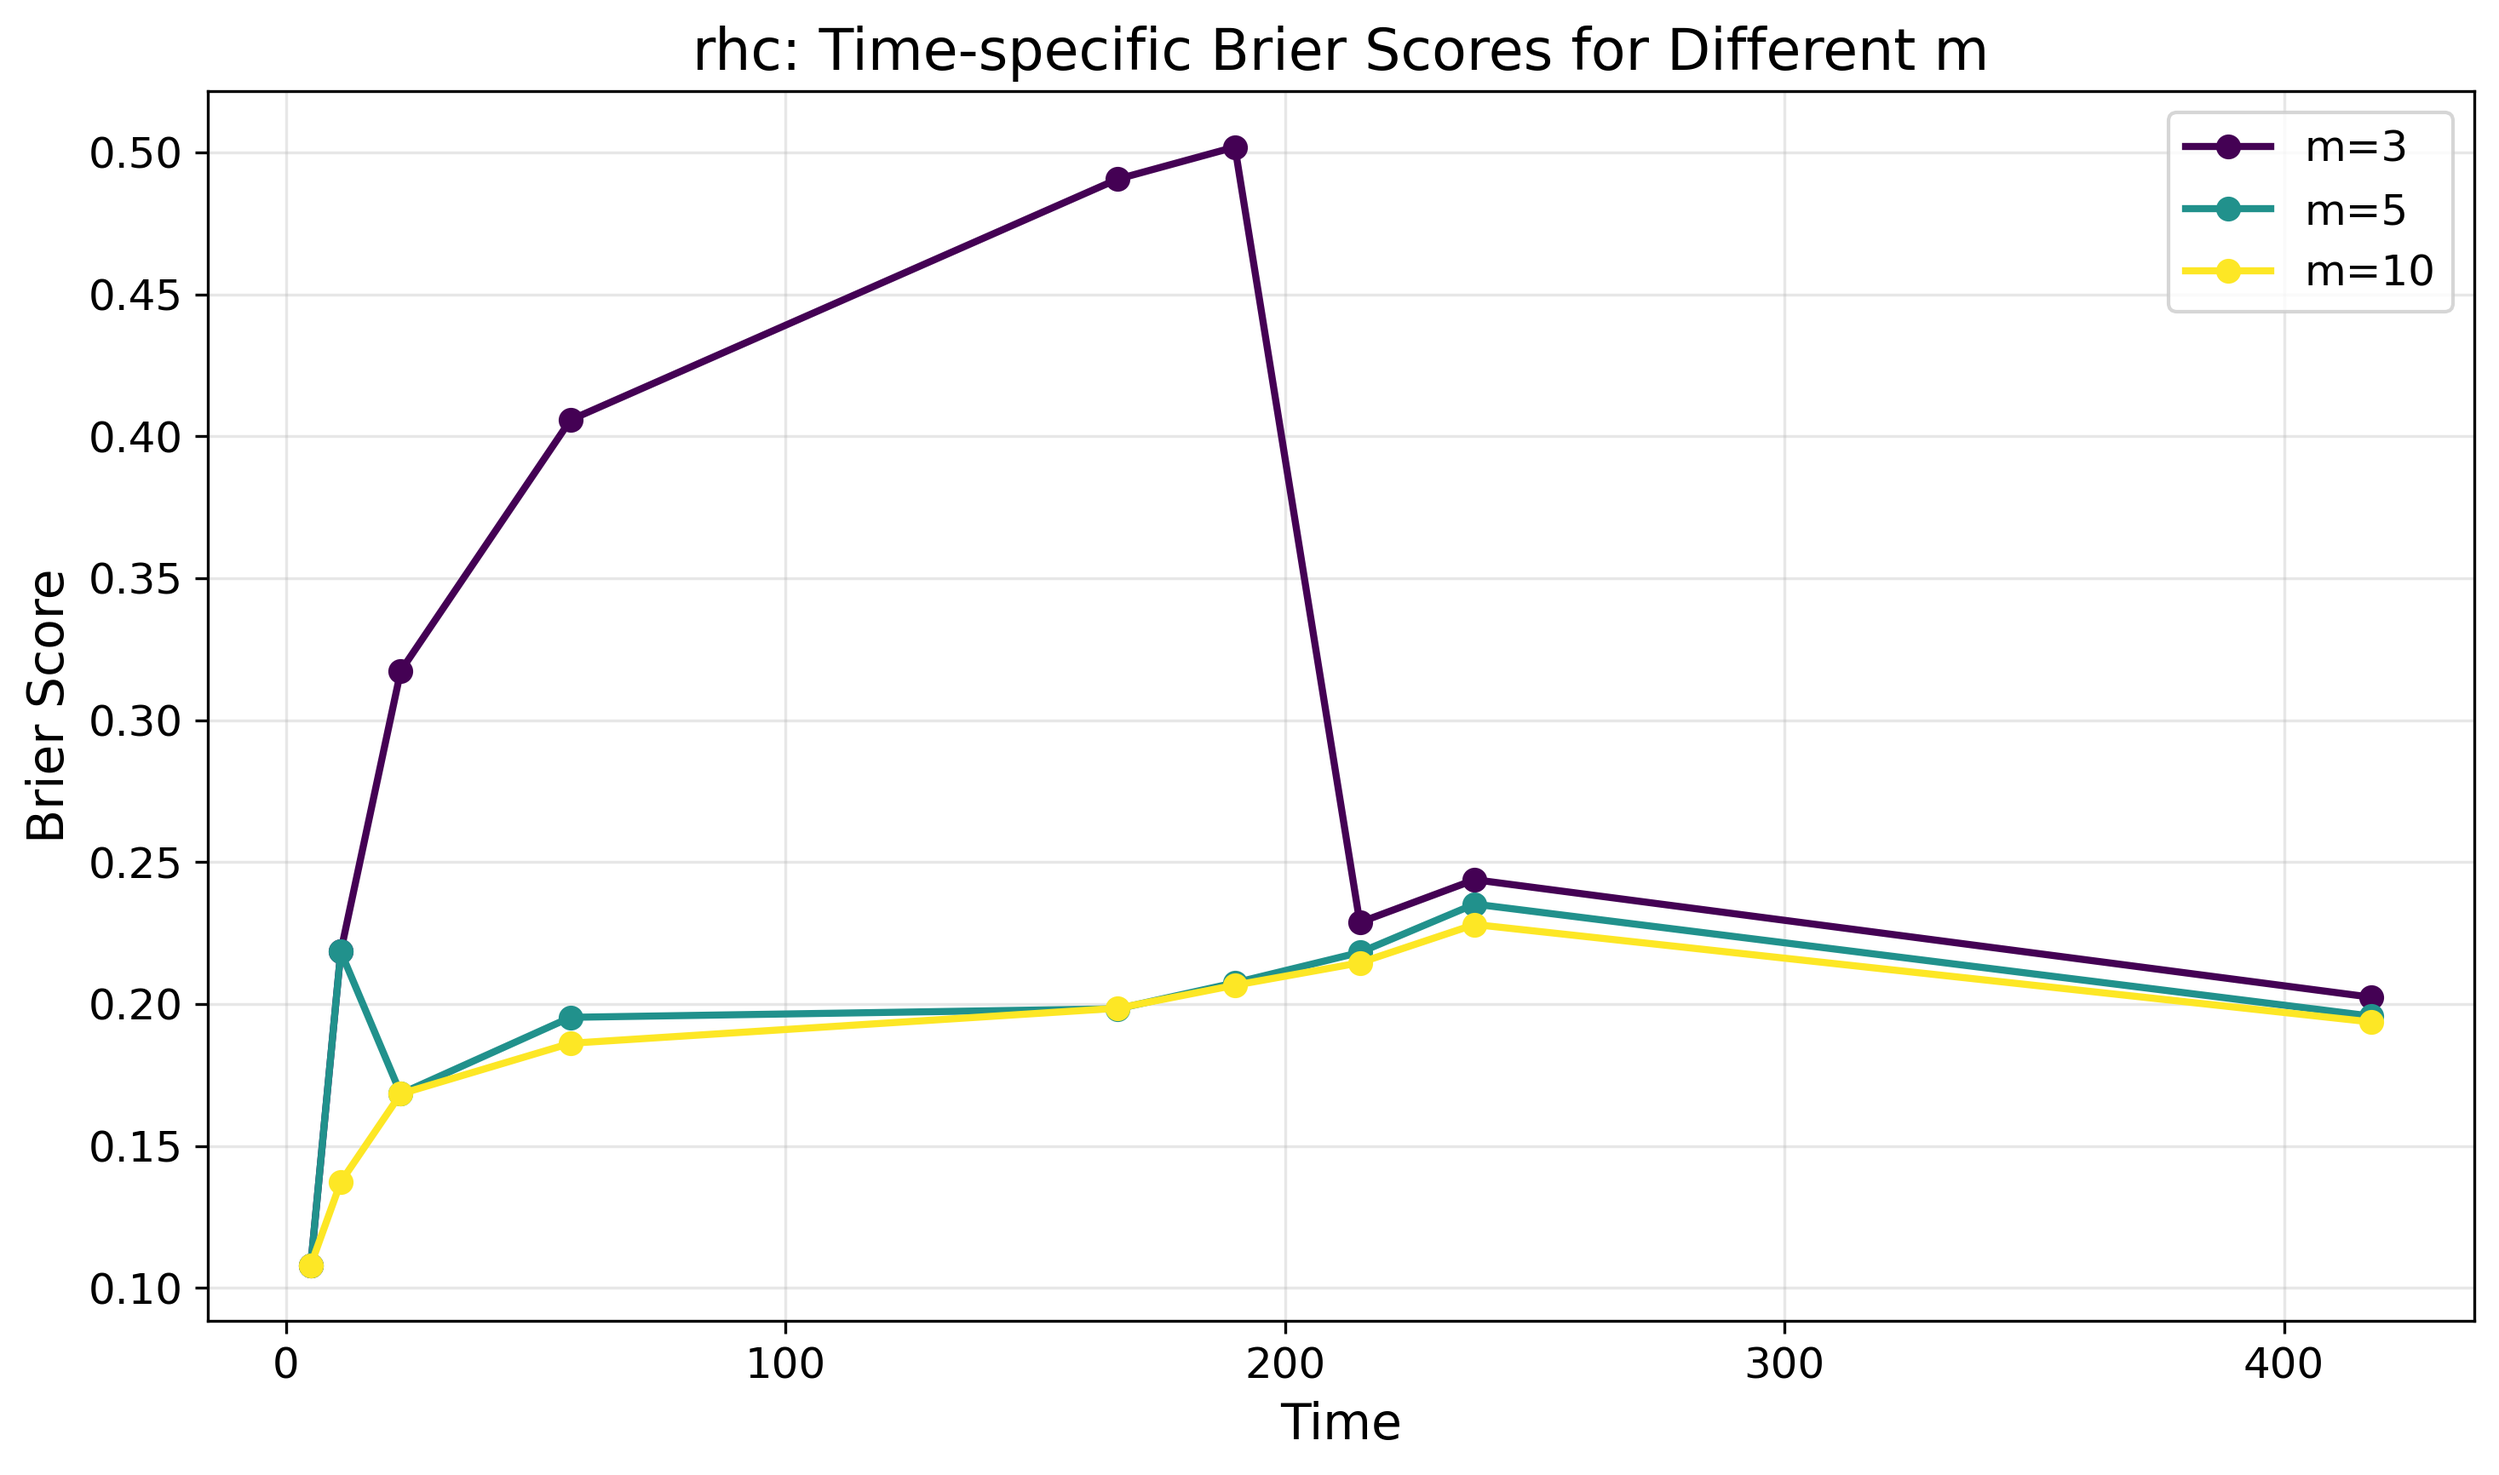
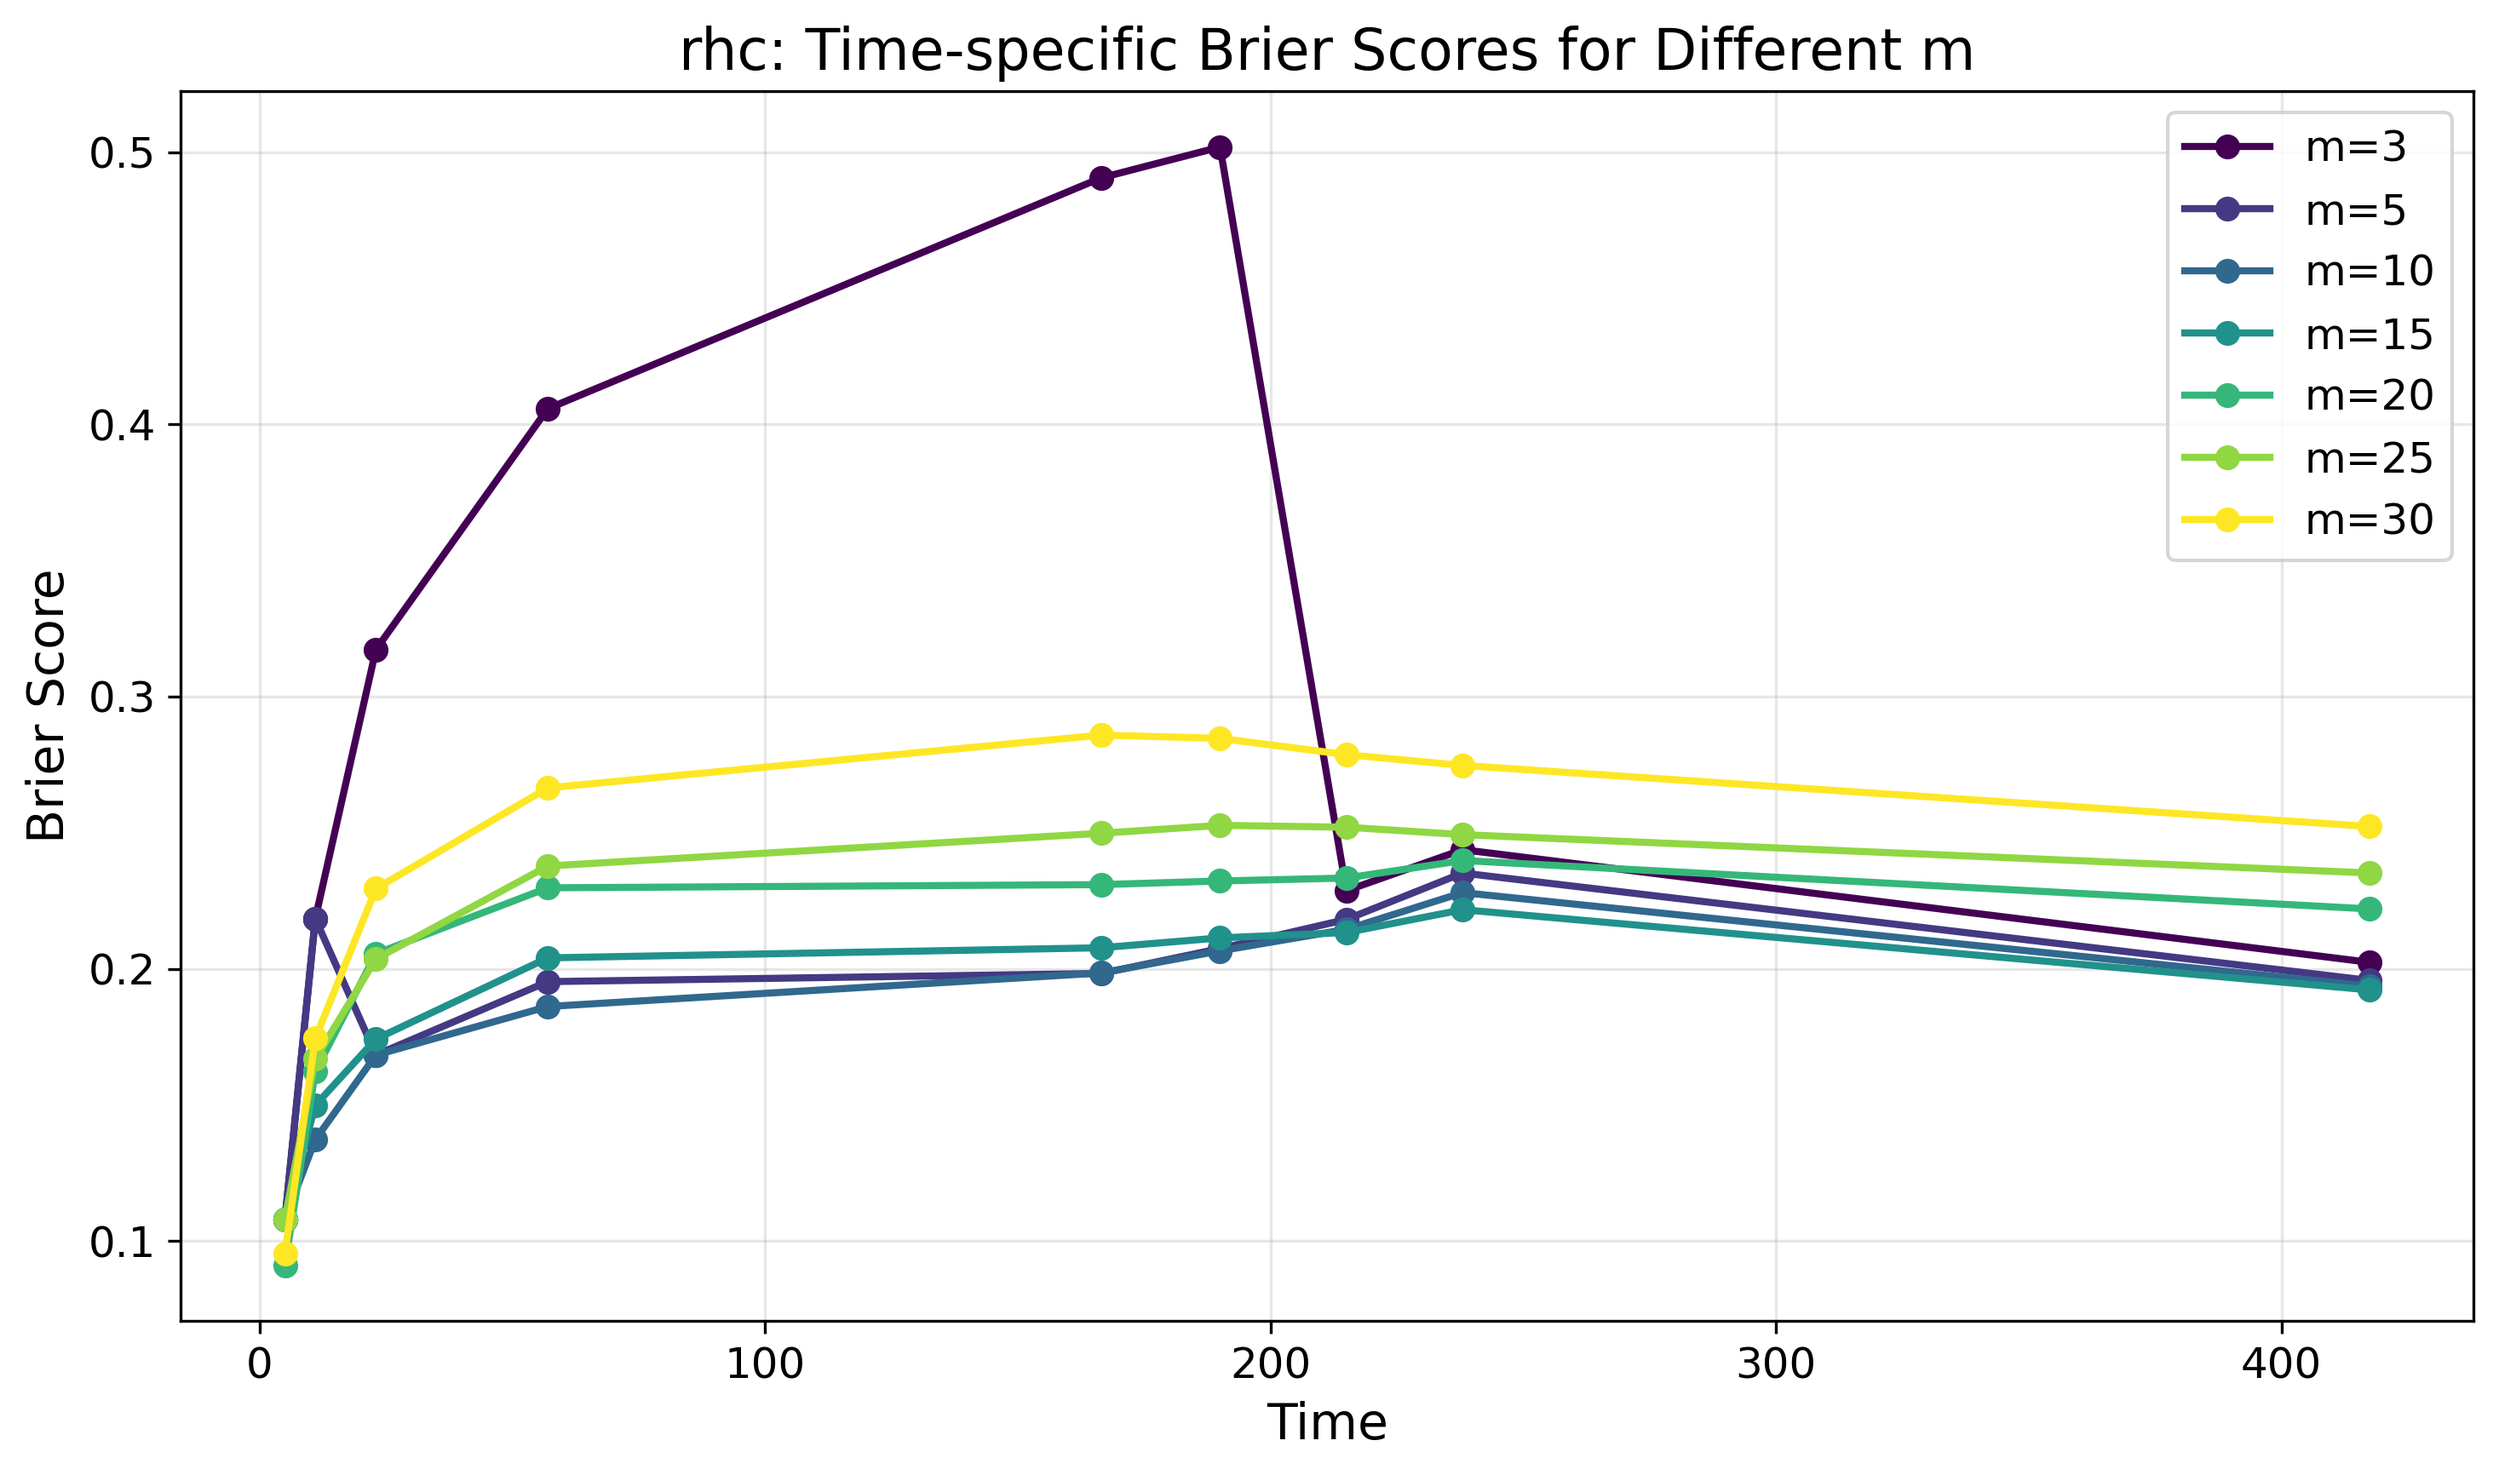
add high m value result

diff --git a/nbins_analysis.py b/nbins_analysis.py
@@ -34,6 +34,9 @@ import os
 import random
 import torch
 
+# Set CUDA_LAUNCH_BLOCKING for better CUDA error debugging
+os.environ['CUDA_LAUNCH_BLOCKING'] = '1'
+
 # Set matplotlib font sizes
 plt.rcParams.update({
     'font.size': 14,
@@ -271,6 +274,34 @@ def get_worst_datasets():
     
     return worst_datasets['dataset'].tolist()
 
+def print_gpu_memory_info():
+    """Print current GPU memory usage for debugging."""
+    if torch.cuda.is_available():
+        allocated = torch.cuda.memory_allocated() / 1024**3  # GB
+        reserved = torch.cuda.memory_reserved() / 1024**3    # GB
+        print(f"      GPU Memory - Allocated: {allocated:.2f}GB, Reserved: {reserved:.2f}GB")
+
+def check_and_subsample_if_needed(X_tabpfn_train, y_tabpfn_train, max_samples=50000):
+    """
+    Check if TabPFN training set is too large and subsample if needed.
+    TabPFN can struggle with very large datasets, especially on GPU.
+    """
+    n_samples = X_tabpfn_train.shape[0]
+    
+    if n_samples > max_samples:
+        print(f"      Dataset too large ({n_samples} samples), subsampling to {max_samples}")
+        # Stratified subsampling to maintain class distribution
+        from sklearn.model_selection import train_test_split
+        X_sub, _, y_sub, _ = train_test_split(
+            X_tabpfn_train, y_tabpfn_train, 
+            train_size=max_samples, 
+            stratify=y_tabpfn_train,
+            random_state=SEED
+        )
+        return X_sub, y_sub
+    
+    return X_tabpfn_train, y_tabpfn_train
+
 def train_tabpfn_with_nbins(x_trainval_imputed, y_trainval, x_test_filtered, y_test_filtered, 
                            df, time_col, event_col, times, n_bins):
     """Train TabPFN with specified n_bins and return survival predictions and metrics."""
@@ -309,16 +340,61 @@ def train_tabpfn_with_nbins(x_trainval_imputed, y_trainval, x_test_filtered, y_t
     # Train TabPFN
     X_tabpfn_train, y_tabpfn_train = construct_tabpfn_trainset(x_trainval_imputed, y_trainval_model, cuts)
     
-    tabpfn_model = TabPFNClassifier(
-        device= "cuda" if torch.cuda.is_available() else "cpu",
-        ignore_pretraining_limits=True
-    )
-    tabpfn_model.fit(X_tabpfn_train, y_tabpfn_train)
+    print(f"      TabPFN training set size: {X_tabpfn_train.shape[0]} samples, {X_tabpfn_train.shape[1]} features")
+    
+    # Check and subsample if dataset is too large
+    X_tabpfn_train, y_tabpfn_train = check_and_subsample_if_needed(X_tabpfn_train, y_tabpfn_train)
+    
+    # Clear CUDA cache before training
+    if torch.cuda.is_available():
+        torch.cuda.empty_cache()
+        print_gpu_memory_info()
+    
+    # Try CUDA first, stop if CUDA fails (don't fallback to CPU as it won't be effective)
+    device = "cuda" if torch.cuda.is_available() else "cpu"
+    if not torch.cuda.is_available():
+        raise RuntimeError("CUDA is not available. TabPFN requires GPU acceleration for effective training.")
+    
+    try:
+        tabpfn_model = TabPFNClassifier(
+            device=device,
+            ignore_pretraining_limits=True
+        )
+        tabpfn_model.fit(X_tabpfn_train, y_tabpfn_train)
+        print(f"      Successfully trained on {device.upper()}")
+        if torch.cuda.is_available():
+            print_gpu_memory_info()
+    except Exception as cuda_error:
+        print(f"      CUDA training failed: {str(cuda_error)}")
+        print("      Cannot fallback to CPU as TabPFN requires GPU acceleration.")
+        # Clear CUDA cache and raise the error to stop this n_bins iteration
+        if torch.cuda.is_available():
+            torch.cuda.empty_cache()
+            print_gpu_memory_info()
+        raise cuda_error
     
     # Predict with TabPFN
     unique_bins, inv = np.unique(times_eval, return_inverse=True)
     X_tabpfn_test, test_patient_ids = construct_tabpfn_testset(x_test_filtered, cuts[unique_bins])
-    probs = tabpfn_model.predict_proba(X_tabpfn_test)
+    
+    print(f"      TabPFN test set size: {X_tabpfn_test.shape[0]} samples")
+    
+    # Clear CUDA cache before prediction
+    if torch.cuda.is_available():
+        torch.cuda.empty_cache()
+        print_gpu_memory_info()
+    
+    try:
+        probs = tabpfn_model.predict_proba(X_tabpfn_test)
+        if torch.cuda.is_available():
+            print_gpu_memory_info()
+    except Exception as pred_error:
+        print(f"      Prediction failed: {str(pred_error)}")
+        if torch.cuda.is_available():
+            print("      Clearing CUDA cache and retrying prediction...")
+            torch.cuda.empty_cache()
+            print_gpu_memory_info()
+        probs = tabpfn_model.predict_proba(X_tabpfn_test)
     
     # Convert to hazards and survival
     def hazards_from_probs(X_test, pids, probs, unique_cut_values, eps=1e-12):
@@ -441,6 +517,11 @@ def analyze_nbins_effect(dataset_name, n_bins_range=[3, 5, 10, 15, 20, 25, 30]):
     
     for n_bins in n_bins_range:
         print(f"  Training with n_bins={n_bins}...")
+        
+        # Clear CUDA cache before each iteration
+        if torch.cuda.is_available():
+            torch.cuda.empty_cache()
+        
         try:
             S_tabpfn, metrics = train_tabpfn_with_nbins(
                 x_trainval_imputed, y_trainval, x_test_filtered, y_test_filtered,
@@ -450,6 +531,9 @@ def analyze_nbins_effect(dataset_name, n_bins_range=[3, 5, 10, 15, 20, 25, 30]):
             print(f"    IBS: {metrics['ibs']:.4f}, C-index: {metrics['c_index']:.4f}, Mean AUC: {metrics['mean_auc']:.4f}")
         except Exception as e:
             print(f"    Failed: {e}")
+            # Clear CUDA cache after failure
+            if torch.cuda.is_available():
+                torch.cuda.empty_cache()
             continue
     
     if not results:
@@ -646,11 +730,3 @@ if __name__ == "__main__":
         print(f"  figures/nbins_analysis/{dataset_name}_time_specific_brier_nbins.png (time-specific Brier)")
     if len(all_results) > 1:
         print(f"  figures/nbins_analysis/summary_nbins_analysis.png")
-    
-    print(f"\n{'='*60}")
-    print("Key Insights:")
-    print("- Calibration (IBS, Brier scores): Should improve with more bins (finer discretization)")
-    print("- Discrimination (C-index, AUC): Should remain relatively stable across n_bins")
-    print("- Optimal n_bins may differ between calibration and discrimination metrics")
-    print("- Trade-off between calibration improvement and computational complexity")
-    print(f"{'='*60}")
